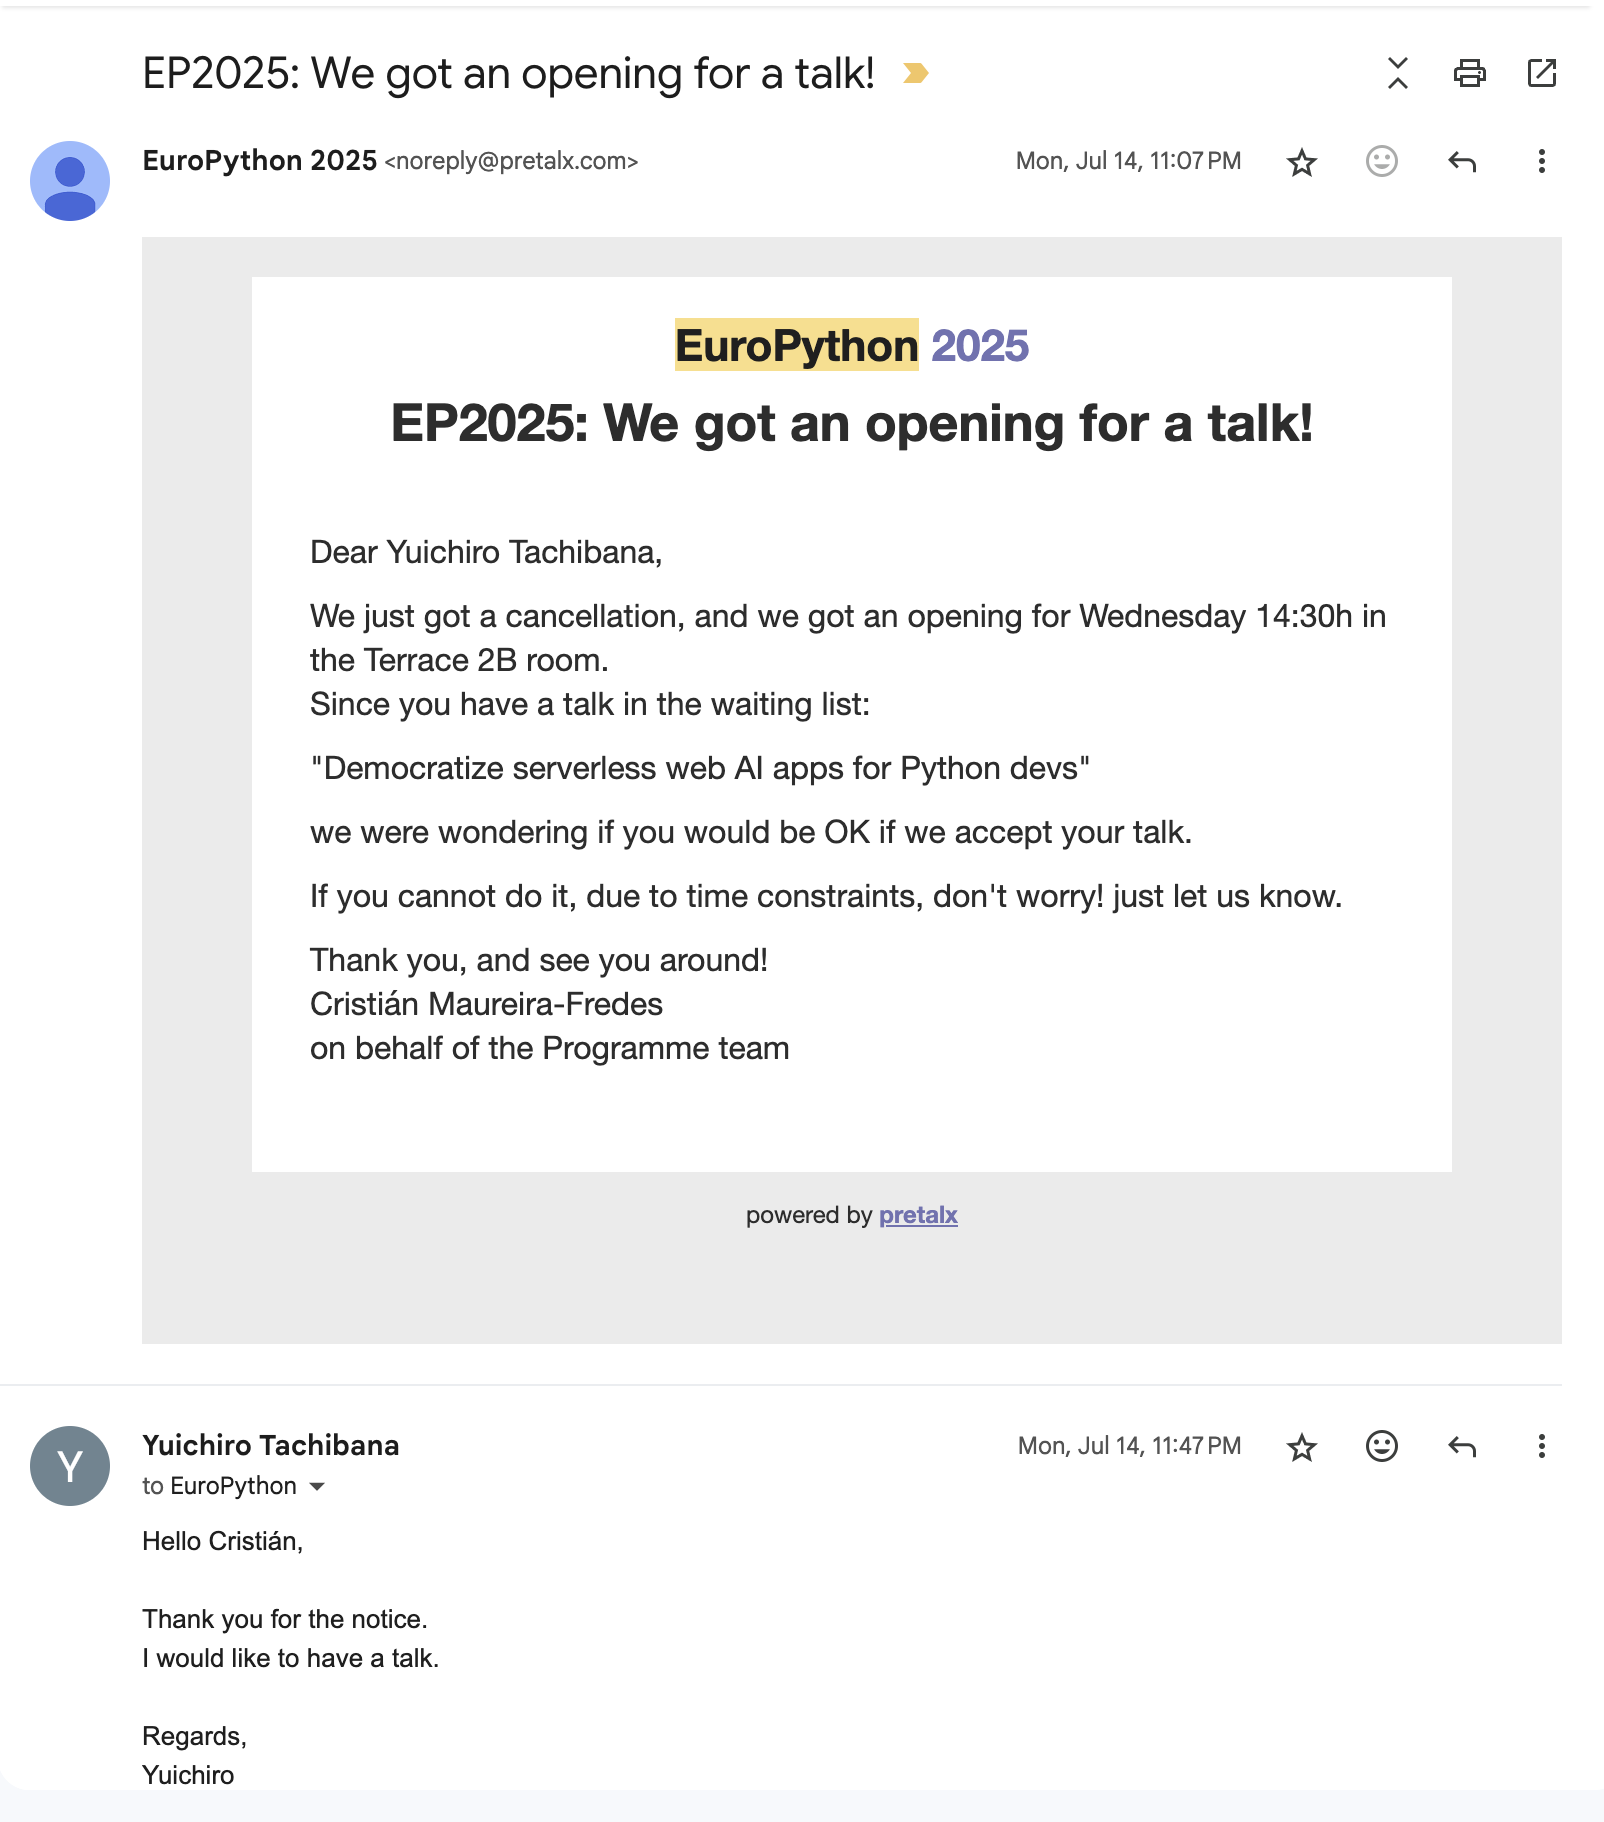
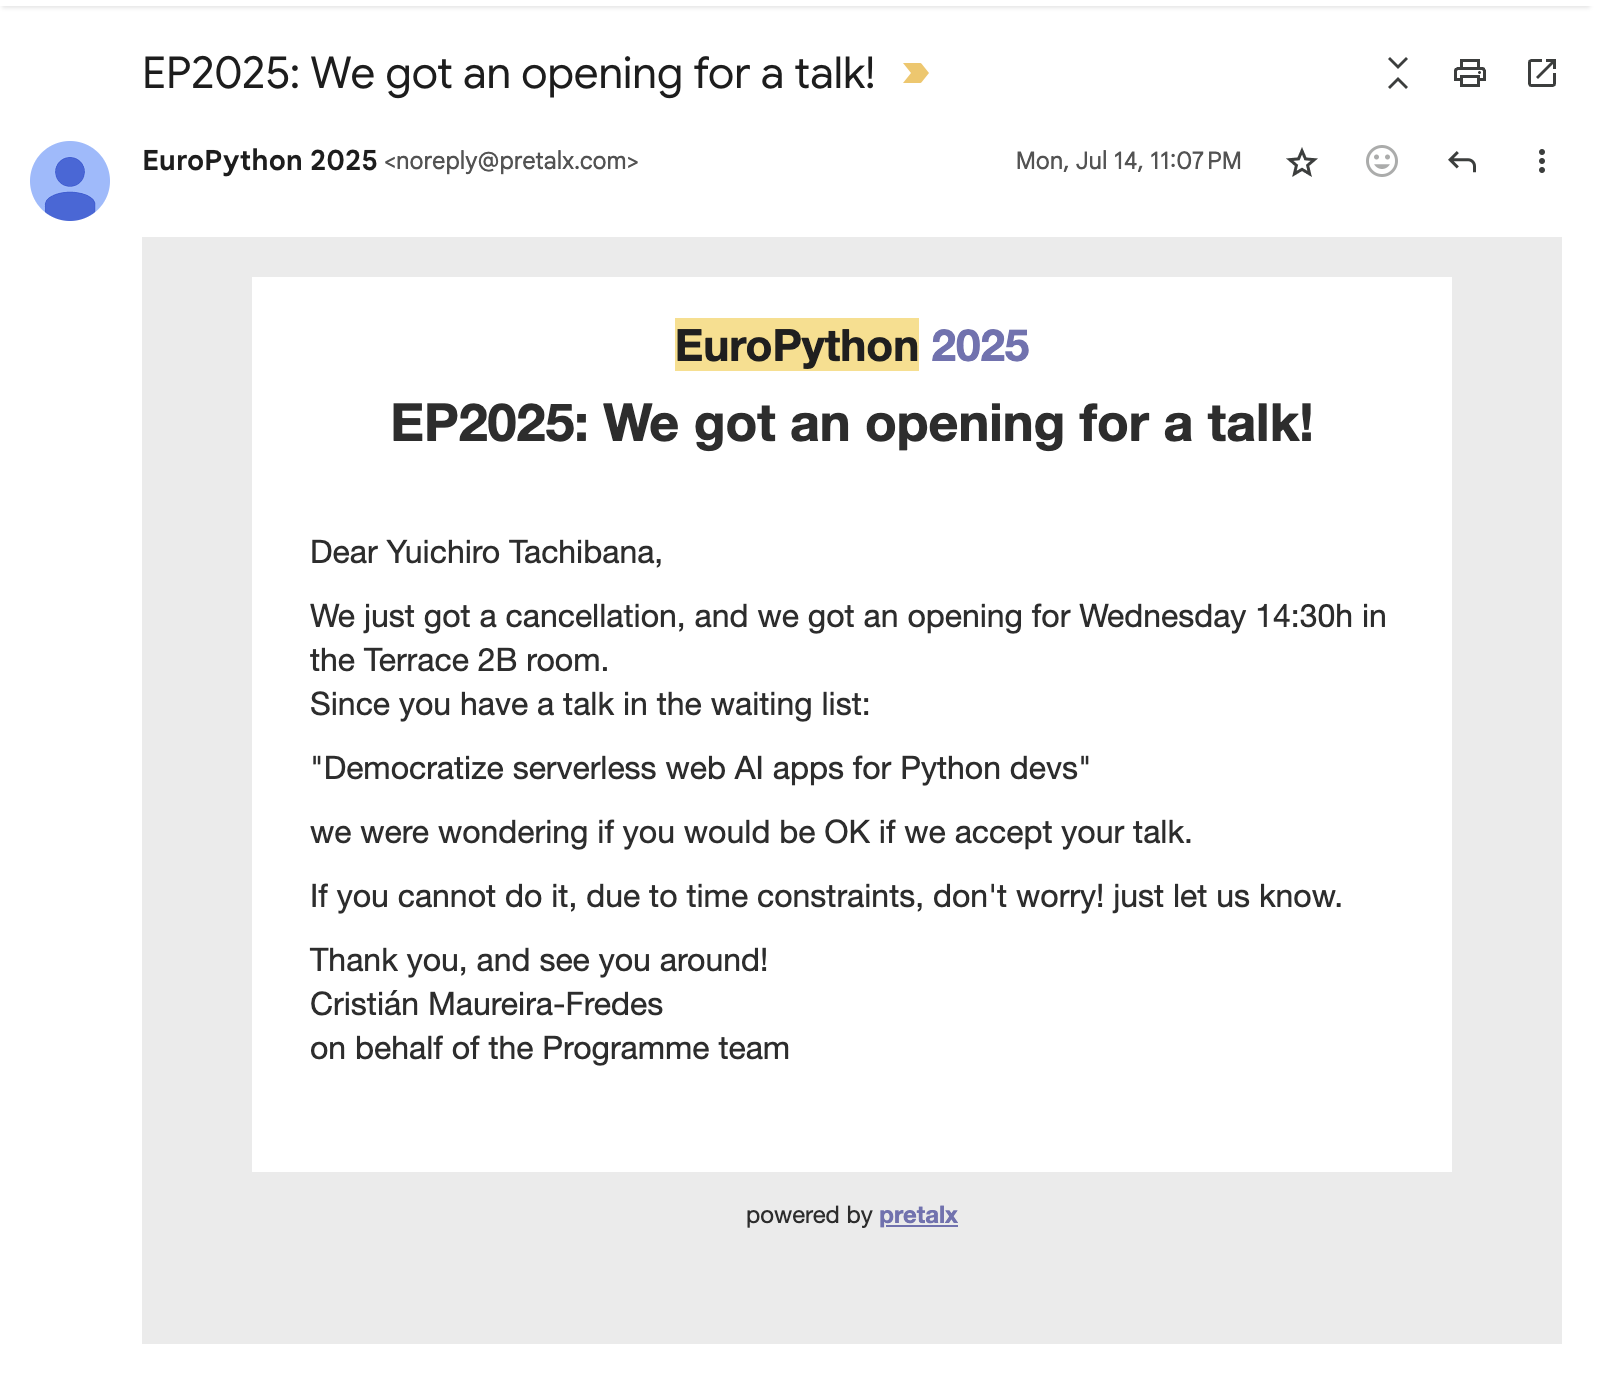
Update

diff --git a/decks/202508-europython-report/slides.md b/decks/202508-europython-report/slides.md
@@ -72,28 +72,49 @@ Software Artisan / Indie Dev / OSS Enthusiast
 
 ---
 
-# D-2: 到着
+# D-2 昼: 到着
+
+<img src="/PXL_20250714_091256434.jpg" alt="Arrival" absolute bottom-0 h-110 object-contain >
 
 ---
 
 # D-2 夕方
 
-<img src="/email_ask.png" alt="Email notifying that my talk is in waiting list" absolute bottom-0 h-110 object-contain >
+<img src="/email_ask.png" alt="Email notifying that there was an opening for a talk" absolute bottom--20 h-130 object-contain >
+
+<img src="/email_answer.png" alt="Email notifying that my talk is in waiting list" absolute bottom--20 h-130 object-contain v-click>
+
+---
+
+# D-2 夜
+
+<img src="/PXL_20250714_182624469.jpg" alt="Dinner with TW and JP members" absolute bottom-0 h-110 object-contain >
 
 ---
 
 # D-1: ひたすら準備
-<!-- 1日半で準備 -->
+
+<img src="/irasutoya_pc.png" absolute bottom-30 h-80 object-contain>
 
 ---
+
 # D-1 夜: スピーカーディナー
 
-<!-- スピーカーディナー -->
+<img src="/PXL_20250715_182707767.jpg" alt="Speaker dinner" absolute bottom-0 h-110 object-contain >
 
 ---
-# D-0: カンファレンス初日午後に発表
 
-<!-- 発表 -->
+# D-0 午前: まだ準備
+
+<img src="/PXL_20250716_080925626.MP.jpg" alt="Speaker dinner" absolute bottom-0 h-110 object-contain >
+
+<img src="/irasutoya_pc.png" absolute bottom--10 h-120 object-contain v-click >
+
+---
+
+# D-0 午後: カンファレンス初日午後に発表
+
+<img src="/2025-07-16 22.28.53.jpg" alt="My talk" absolute bottom-0 h-110 object-contain >
 
 ---
 
@@ -101,7 +122,7 @@ Software Artisan / Indie Dev / OSS Enthusiast
 
 （非推奨）
 
-<v-clicks>
+<v-clicks text-5xl>
 
 1. プロポーザルを再確認
 2. 構成をざっくり考える
